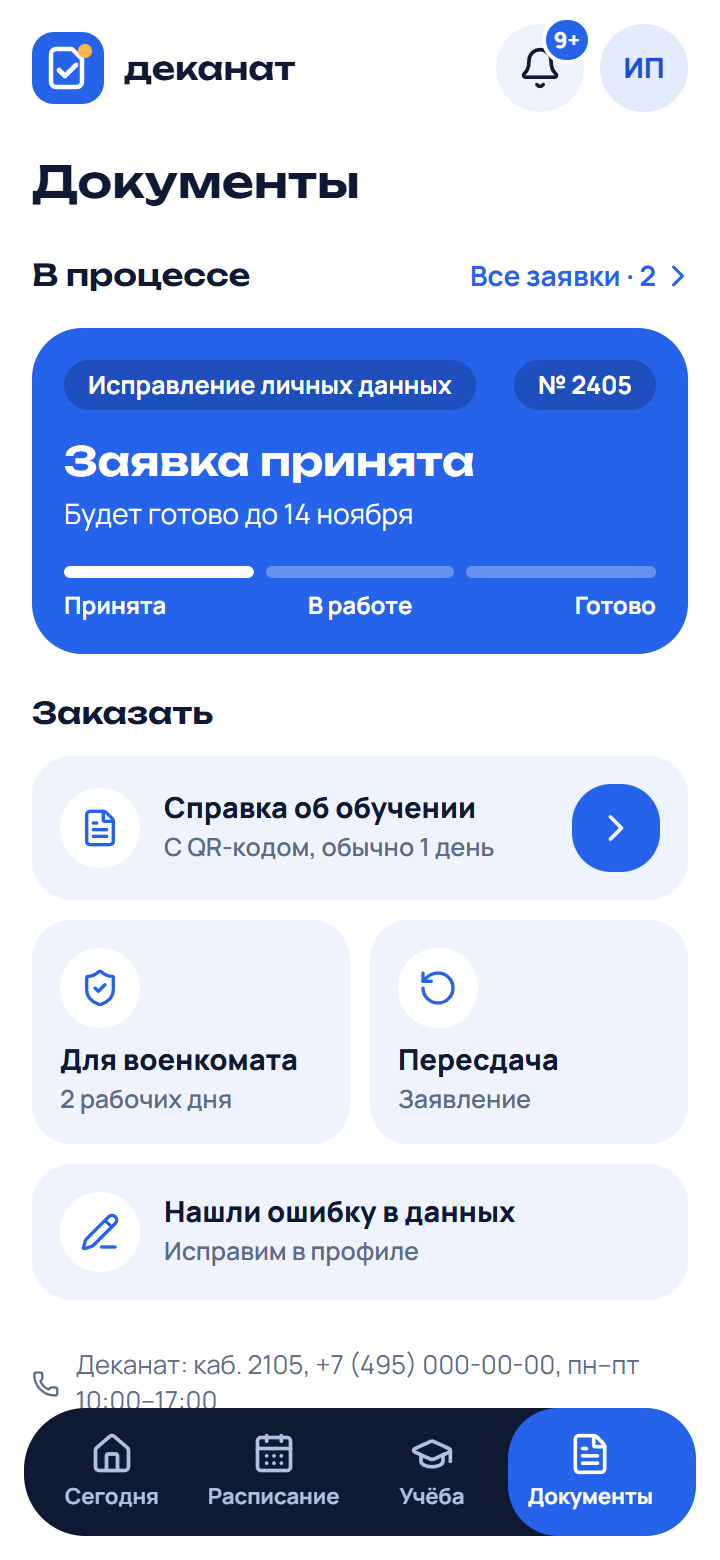
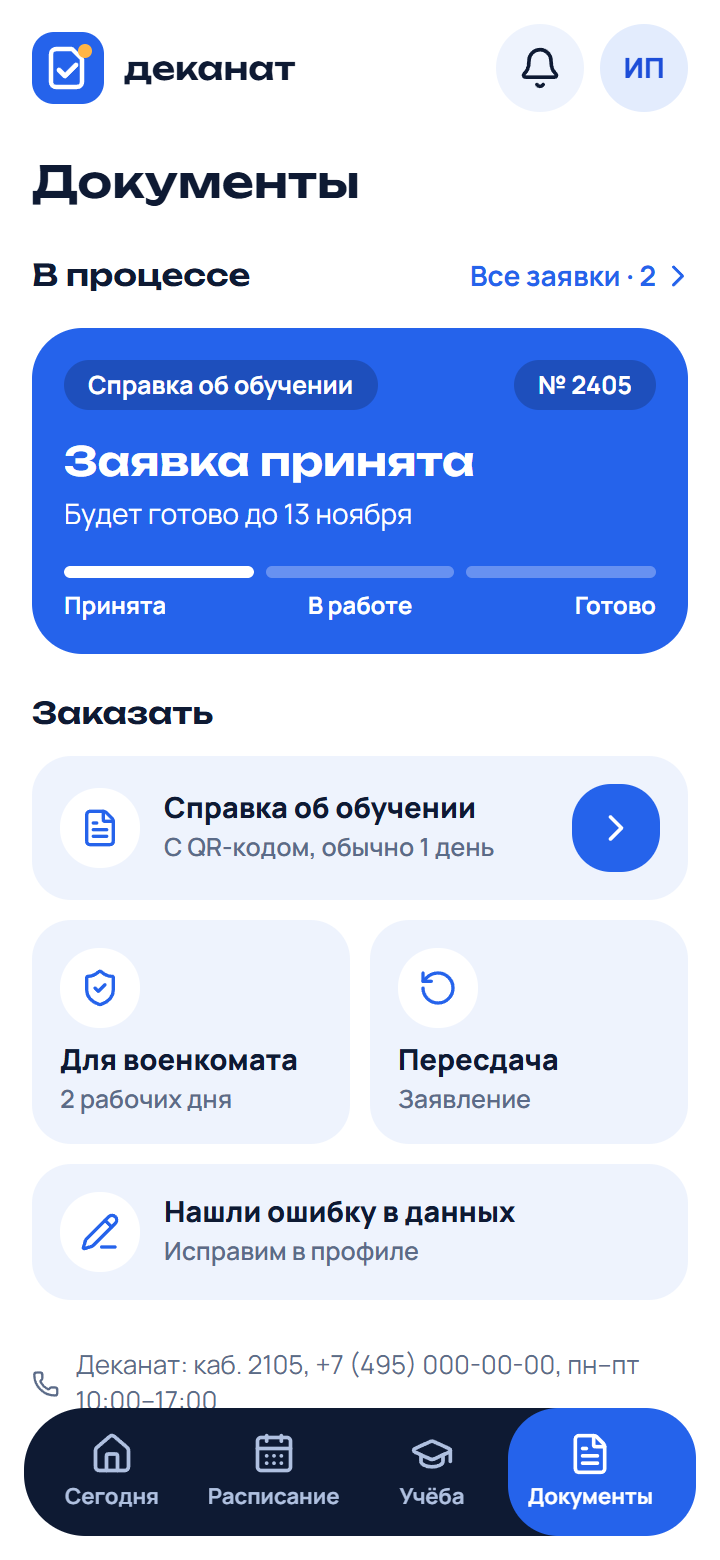
Журнал, статус и скриншоты: демо-заявка student2 заменена на справку

diff --git a/STATUS.md b/STATUS.md
@@ -4,9 +4,9 @@
 
 ## Где мы
 
-- Сайт: https://87.242.100.109.sslip.io, на нём последняя версия (коммит e42859e), всё закоммичено.
+- Сайт: https://87.242.100.109.sslip.io, на нём последняя версия (коммит 795fe8e), всё закоммичено.
 - Работает всё ядро и сверх него: «Сегодня», расписание с карточкой пары и сессией, учёба со статистикой, документы с перепиской и QR, уведомления, профиль с аватаркой, кабинет сотрудника, живое обновление, версия для компьютера. Проверки `check-all` проходят локально и на сайте (`docs/test-report.md`).
-- Разбор от ChatGPT (12 ноября): напарник прислал разбор репозитория. После сверки с кодом исправлено четыре неточности: демо-заявка `student2` теперь про опечатку в отчестве (она намеренно есть в его профиле, сотрудник может её исправить), текст после отправки заявки общий для всех видов, «Поделиться» называется ссылкой для проверки, при отказе браузера копировать ссылка показана в окне. Для ролика: после ночного сброса у справок новые коды, QR снимать свежий.
+- Разбор от ChatGPT (12 ноября): напарник прислал разбор репозитория. После сверки с кодом исправлено четыре неточности: демо-заявка `student2` теперь обычная справка «Для визы» в статусе «Принята» (раньше просила сменить группу, чего сотрудник не может), текст после отправки заявки общий для всех видов, «Поделиться» называется ссылкой для проверки, при отказе браузера копировать ссылка показана в окне. Для ролика: после ночного сброса у справок новые коды, QR снимать свежий.
 - Отзыв с iPhone (12 ноября): знакомая напарника открыла сайт на iPhone в браузере Telegram через мобильную сеть, вход и расписание работают. По её замечаниям сделано два: под нижним меню больше не просвечивает страница, дни экзаменов и зачётов в неделе сессии подписаны «экз» и «зач». Остальное в «После сдачи» в `PLAN.md`. Меню на iPhone после правки ещё не проверено: ждём новый снимок от напарника.
 - Аудит безопасности (10 ноября): навык `security-audit` от Cloudflare, быстрый режим, 25 запусков агентов из 30 (4 разведка, 13 поиск, критик, 7 перепроверка на Opus). Доступа к чужим данным не найдено. Шесть находок исправлены и проверены запуском до и после: сессии завершаются при смене пароля, cookie сессии `__Host-session`, справка хранит ФИО на момент выдачи, лимит входа без гонки и по паре «адрес и логин», пределы на заявки и сообщения, очередь деканата не падает на большом архиве. Сверка с OWASP сделана. `npm audit --omit=dev` без замечаний. Итог в `docs/security-audit.md`, полный отчёт вне репозитория в `~/security-audit-skill/digital-dean/run-1/`. После выкладки все вошли заново один раз: cookie сменила имя.
 - Сверка с заданием (10 ноября): ядро и требования выполнены. Исправлено: демо-данные на сайте были израсходованы проверками и устарели бы к показу. Теперь с `DEMO_RESET=1` (на сервере включено) приложение при каждом старте возвращает демо-заявки, переписку, «прочитано» и аватарки к исходным, даты в них от дня сброса. Добавлены заголовки защиты, номера зачёток совпадают с годом поступления, чек-лист в `PLAN.md` отмечен. Любая выкладка и перезапуск приложения теперь сбрасывают демо-данные.

diff --git a/docs/ai-log.md b/docs/ai-log.md
@@ -10,7 +10,7 @@
 
 ИИ предложил и сделал:
 - Разбор прочитал как данные, а не как задание: каждый пункт сначала сверил с текущим кодом и показал таблицу «подтвердилось или нет». Правил только после согласия.
-- Подтвердились четыре неточности. Демо-заявка второго студента просила сменить группу, хотя в профиле она уже стояла верная, а сотрудник умеет менять только ФИО. Теперь в отчестве студента намеренная опечатка, заявка просит её исправить, сотрудник может это сделать.
+- Подтвердились четыре неточности. Демо-заявка второго студента просила сменить группу, хотя в профиле она уже стояла верная, а сотрудник умеет менять только ФИО. Первый вариант: намеренная опечатка в отчестве студента и заявка о ней. Итоговый вариант после решения капитана: демо-заявка заменена на обычную справку «Для визы» в статусе «Принята», опечатки нет. Исправление ФИО по-прежнему можно заказать из формы.
 - После отправки любой заявки было «Мы напишем, когда документ будет готов», хотя у пересдачи и исправления данных документа нет. Теперь «О результате сообщим в уведомлениях».
 - Кнопка «Поделиться» называлась «Поделиться справкой», а отправляет ссылку на страницу проверки. Подпись и текст в форме заказа теперь про ссылку для проверки.
 - Если браузер не дал скопировать ссылку, ошибка терялась. Теперь ссылка показана в окне, её можно скопировать вручную. В `check-actions` добавлена проверка этого случая.
@@ -24,11 +24,11 @@
 Что пошло не так:
 - Разбор неточно описал первую находку: «просит изменить группу с МИЭП-11 на МИЭП-12». На деле было хуже: в профиле уже стояла МИЭП-12, то есть заявка описывала ошибку, которой нет. Это нашлось только при сверке с кодом.
 - Официальный срок «23:59» из разбора в `TASK.md` не нашёлся. Держимся своего срока 20:00.
-- Побочный эффект правки: опечатка в отчестве видна и в уже выданной справке второго студента, потому что справка хранит ФИО на момент выдачи. Оставили: это показывает ту же механику, и ночной сброс возвращает опечатку.
+- Первый вариант правки оказался неудачным. Опечатка в отчестве была видна не только в заявке, но и в профиле, в форме заказа и в уже выданной справке (она хранит ФИО на момент выдачи). Жюри увидело бы её раньше заявки и приняло бы за небрежность. ИИ назвал этот риск сам и предложил запасной вариант, капитан выбрал его.
 
-Исправили вручную: ничего. Разбор заказал и переслал напарник, решение править принял капитан.
+Исправили вручную: ничего. Разбор заказал и переслал напарник, решение править и выбор варианта демо-заявки принял капитан.
 
-Скриншоты: docs/screenshots/2026-11-12-fix-profile-udachno.png, docs/screenshots/2026-11-12-fix-form-udachno.png, docs/screenshots/2026-11-12-fix-order-udachno.png, docs/screenshots/2026-11-12-fix-documents-udachno.png
+Скриншоты: docs/screenshots/2026-11-12-fix-profile-neudachno.png (первый вариант с опечаткой), docs/screenshots/2026-11-12-fix-profile-udachno.png, docs/screenshots/2026-11-12-fix-form-udachno.png, docs/screenshots/2026-11-12-fix-order-udachno.png, docs/screenshots/2026-11-12-fix-documents-udachno.png
 
 ## 2026-11-12, этап: отзыв с iPhone, нижнее меню и метки сессии
 
